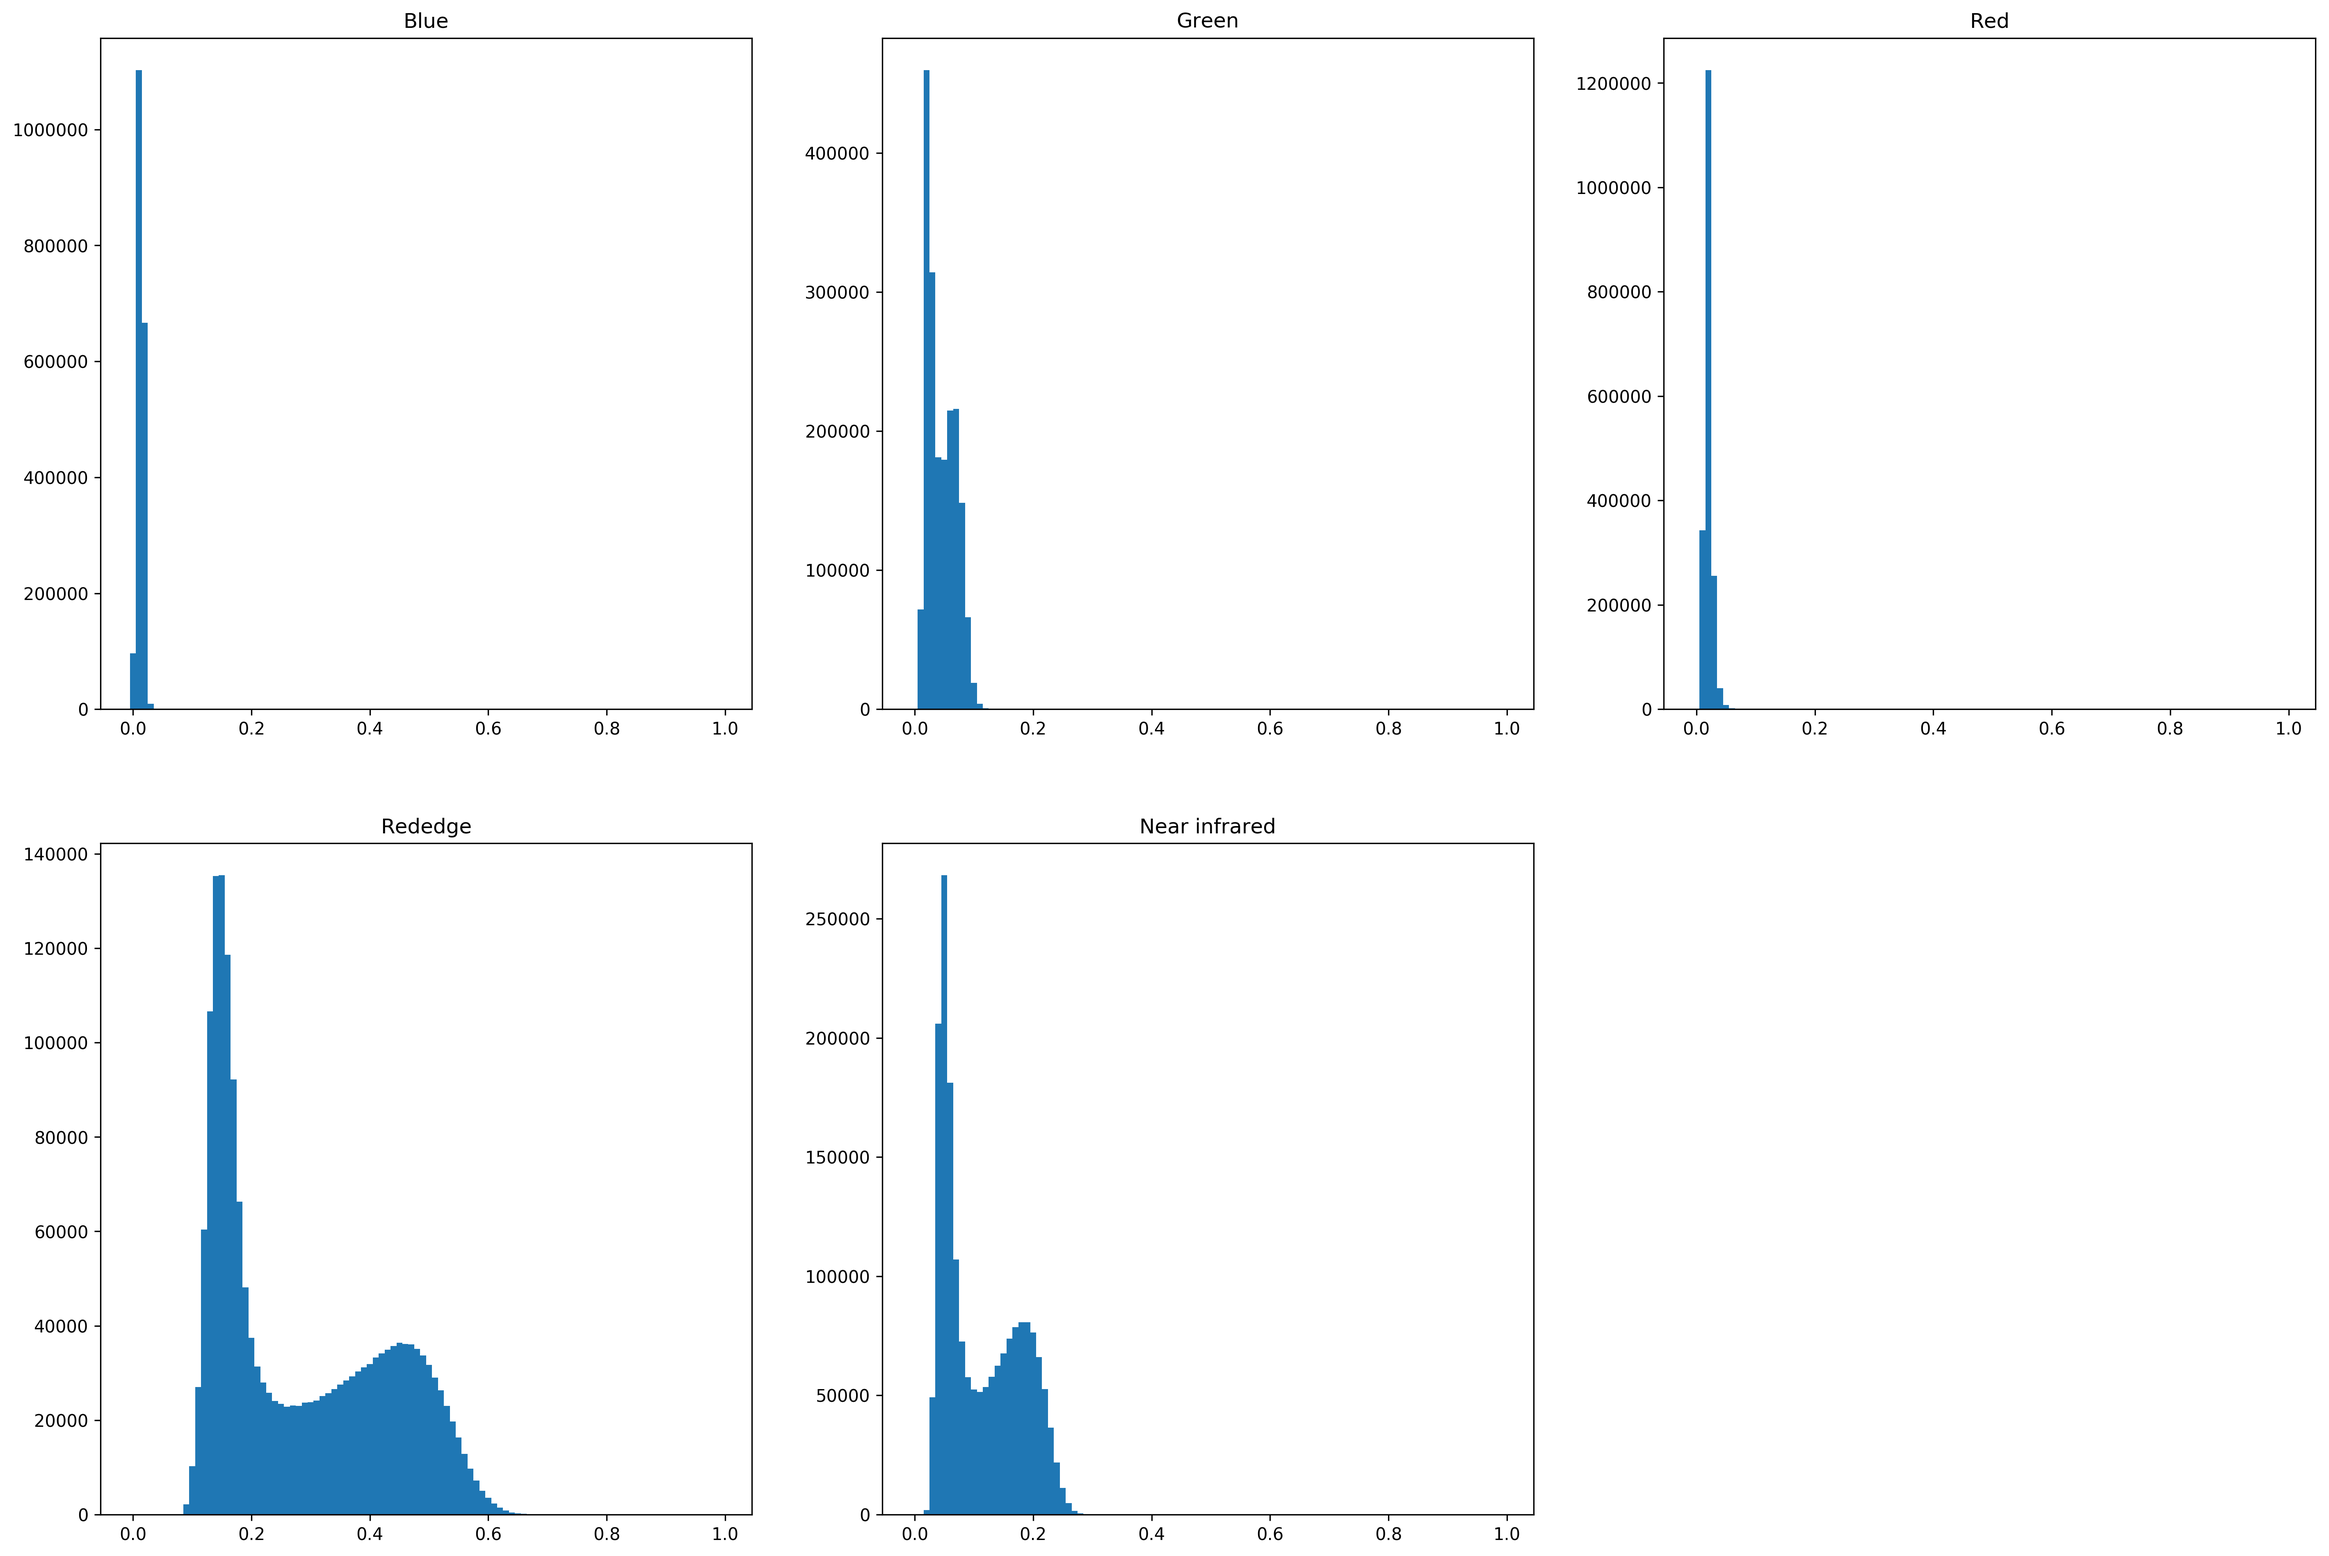
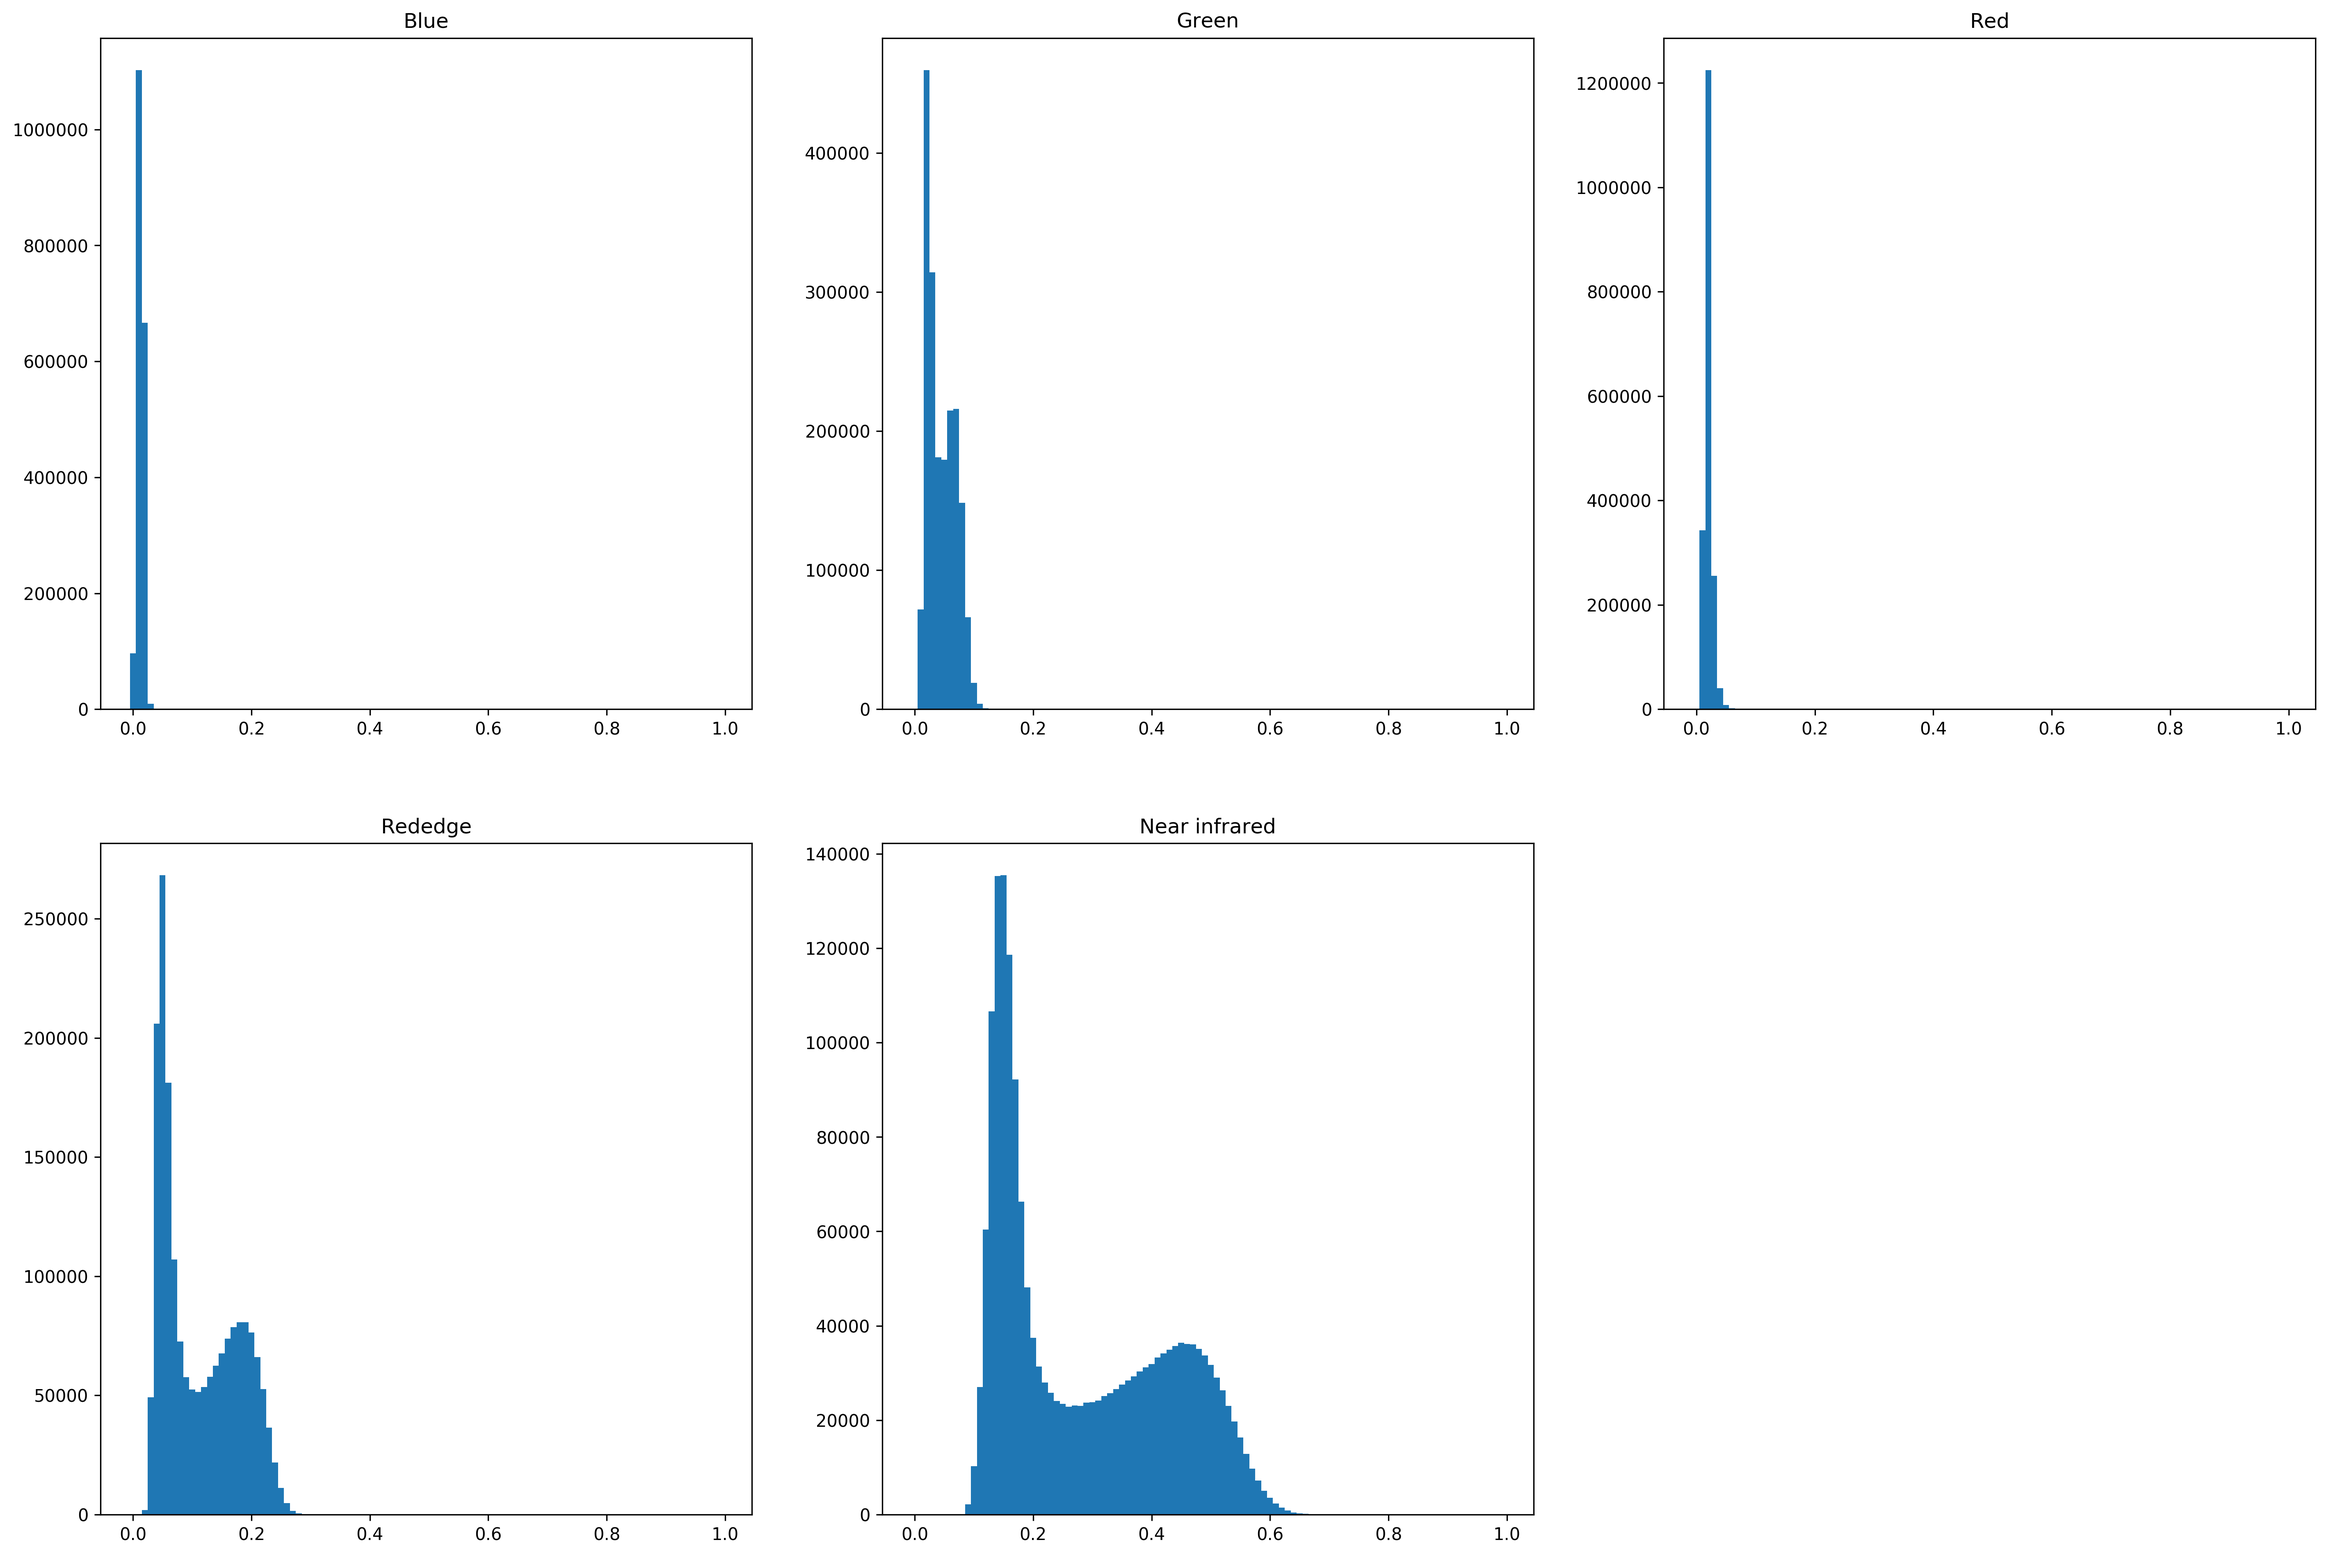
Update Mapping potato file

diff --git a/Mapping_potato_late_blight_from_UAV-based_multispectral_imagery.md b/Mapping_potato_late_blight_from_UAV-based_multispectral_imagery.md
@@ -22,7 +22,7 @@ The experimental plot area was clipped by using a reference polygon (red polygon
 
 ## Study area:
 
-<img src="Images/Figure1.png" alt="Imagen" width = "700" height="350" style="border: black 2px solid;" >
+<img src="Images/Figure1.png" alt="Imagen" width = "700" height="450" style="border: black 2px solid;" >
     
 High resolution multispectral images were acquired at 40 m altitude above the ground surface at 11:00 am local time (GMT-5). Each 
 multispectral image acquired by the MicaSense camera had five bands as described in the next table.
@@ -127,19 +127,19 @@ ds = gdal.Open('Raster/Correccion_reflectancia/MR_CE_20180512_Subachoque.tif')
 AZUL = ds.GetRasterBand(1).ReadAsArray()
 VERDE = ds.GetRasterBand(2).ReadAsArray()
 ROJO = ds.GetRasterBand(3).ReadAsArray()
-NIR = ds.GetRasterBand(4).ReadAsArray()
-REDEDGE = ds.GetRasterBand(5).ReadAsArray()
+REDEDGE = ds.GetRasterBand(4).ReadAsArray()
+NIR = ds.GetRasterBand(5).ReadAsArray()
 
 srs = ds.GetProjectionRef()
 geo_transform = ds.GetGeoTransform()
 
 plt.figure(1, dpi=300)
 plt.subplots_adjust(left=0.0, right=3.0, bottom=0.0, top=3.0)
-plt.subplot(321) ,plt.imshow(AZUL, cmap='gray'),plt.title('Banda azul')
-plt.subplot(322) ,plt.imshow(VERDE, cmap='gray'),plt.title('Banda verde')
-plt.subplot(323) ,plt.imshow(ROJO, cmap='gray'),plt.title('Banda roja')
-plt.subplot(324) ,plt.imshow(NIR, cmap='gray'),plt.title('Banda infrarroja')
-plt.subplot(325) ,plt.imshow(REDEDGE, cmap='gray'),plt.title('Banda borde rojo')
+plt.subplot(321) ,plt.imshow(AZUL, cmap='gray'),plt.title('Blue band')
+plt.subplot(322) ,plt.imshow(VERDE, cmap='gray'),plt.title('Green band')
+plt.subplot(323) ,plt.imshow(ROJO, cmap='gray'),plt.title('Red band')
+plt.subplot(324) ,plt.imshow(REDEDGE, cmap='gray'),plt.title('Red edge band')
+plt.subplot(325) ,plt.imshow(NIR, cmap='gray'),plt.title('Infrared band')
 plt.show()
 ```
 
@@ -176,9 +176,9 @@ plt.subplot(235), plt.bar(hist_range,hist_b5,0.01),plt.title('Near infrared')
 
 
 
-    (<matplotlib.axes._subplots.AxesSubplot at 0x7fae900306d8>,
+    (<matplotlib.axes._subplots.AxesSubplot at 0x7f7de52f4ef0>,
      <Container object of 100 artists>,
-     <matplotlib.text.Text at 0x7fae72ad9e48>)
+     <matplotlib.text.Text at 0x7f7df1098b38>)
 
 
 
@@ -315,37 +315,37 @@ Now we proceed to save each of the segmented bands:
 bands_out = np.stack([azul_seg,
                       verde_seg,
                       rojo_seg,
-                      nir_seg,
-                      rededge_seg],
+                      rededge_seg,
+                     nir_seg],
                      axis=2)
 
-band_names = {'M_2018-05-12_Corte_Seg_B1.tif',
-              'M_2018-05-12_Corte_Seg_B2.tif',
-             'M_2018-05-12_Corte_Seg_B3.tif',
-             'M_2018-05-12_Corte_Seg_B4.tif',
-             'M_2018-05-12_Corte_Seg_B5.tif'
+band_names = {'M_2018-05-12_Corte_Seg_B1.tif':0,
+              'M_2018-05-12_Corte_Seg_B2.tif':1,
+             'M_2018-05-12_Corte_Seg_B3.tif':2,
+             'M_2018-05-12_Corte_Seg_B4.tif':3,
+             'M_2018-05-12_Corte_Seg_B5.tif':4
              }
 dir_out = 'Raster/Segmented/'
-i=0
+
 for band_name in band_names:
     filename_output = dir_out + band_name
+    index = band_names[band_name]
     x_size = ds.RasterXSize  # Raster xsize
     y_size = ds.RasterYSize  # Raster ysize
     driver = gdal.GetDriverByName('GTiff')
     arch = driver.Create(filename_output,x_size,y_size,1,gdal.GDT_Float32)
     arch.SetGeoTransform(geo_transform)
     arch.SetProjection(srs)
-    arch.GetRasterBand(1).WriteArray(bands_out[:,:,i].astype(np.float32))
+    arch.GetRasterBand(1).WriteArray(bands_out[:,:,index].astype(np.float32))
     del(arch)
-    i +=1
     print("Band "+band_name+" exported")
 ```
 
-    Band M_2018-05-12_Corte_Seg_B5.tif exported
-    Band M_2018-05-12_Corte_Seg_B1.tif exported
-    Band M_2018-05-12_Corte_Seg_B4.tif exported
     Band M_2018-05-12_Corte_Seg_B3.tif exported
     Band M_2018-05-12_Corte_Seg_B2.tif exported
+    Band M_2018-05-12_Corte_Seg_B1.tif exported
+    Band M_2018-05-12_Corte_Seg_B4.tif exported
+    Band M_2018-05-12_Corte_Seg_B5.tif exported
 
 
 ## Supervised classification of dataset A and models training
@@ -390,7 +390,7 @@ def plot_time(dt):
 
     ax.barh(y_pos, performance, align='center')
     ax.set_yticks(y_pos)
-    ax.set_yticklabels(people)
+    ax.set_yticklabels(methods)
     ax.invert_yaxis()  # labels read top-to-bottom
     ax.set_xlabel('Seconds')
     ax.set_title('Performance by method')
@@ -590,13 +590,13 @@ class_prediction, class_prediction_GBC, class_prediction_svc, class_prediction_l
     [Parallel(n_jobs=2)]: Using backend ThreadingBackend with 2 concurrent workers.
     [Parallel(n_jobs=2)]: Done  46 tasks      | elapsed:    0.2s
     [Parallel(n_jobs=2)]: Done 196 tasks      | elapsed:    0.7s
-    [Parallel(n_jobs=2)]: Done 446 tasks      | elapsed:    1.5s
-    [Parallel(n_jobs=2)]: Done 500 out of 500 | elapsed:    1.7s finished
+    [Parallel(n_jobs=2)]: Done 446 tasks      | elapsed:    1.6s
+    [Parallel(n_jobs=2)]: Done 500 out of 500 | elapsed:    1.8s finished
     [Parallel(n_jobs=2)]: Using backend ThreadingBackend with 2 concurrent workers.
-    [Parallel(n_jobs=2)]: Done  46 tasks      | elapsed:    3.9s
-    [Parallel(n_jobs=2)]: Done 196 tasks      | elapsed:   16.3s
-    [Parallel(n_jobs=2)]: Done 446 tasks      | elapsed:   36.9s
-    [Parallel(n_jobs=2)]: Done 500 out of 500 | elapsed:   41.3s finished
+    [Parallel(n_jobs=2)]: Done  46 tasks      | elapsed:    4.1s
+    [Parallel(n_jobs=2)]: Done 196 tasks      | elapsed:   16.7s
+    [Parallel(n_jobs=2)]: Done 446 tasks      | elapsed:   38.7s
+    [Parallel(n_jobs=2)]: Done 500 out of 500 | elapsed:   43.4s finished
     [Parallel(n_jobs=2)]: Using backend ThreadingBackend with 2 concurrent workers.
     [Parallel(n_jobs=2)]: Done  46 tasks      | elapsed:    0.0s
     [Parallel(n_jobs=2)]: Done 196 tasks      | elapsed:    0.0s
@@ -719,13 +719,13 @@ print(classification_report(y_true, y_pred_rf, target_names=target_names))
 
                   precision    recall  f1-score   support
     
-               0       1.00      0.96      0.98   4190374
-     Late blight       0.33      0.89      0.48    268850
-         Healthy       0.89      0.43      0.58    532752
+               0       1.00      0.95      0.97   4190379
+     Late blight       0.32      0.89      0.47    268848
+         Healthy       0.88      0.43      0.58    532749
     
-        accuracy                           0.90   4991976
-       macro avg       0.74      0.76      0.68   4991976
-    weighted avg       0.95      0.90      0.91   4991976
+        accuracy                           0.89   4991976
+       macro avg       0.73      0.76      0.68   4991976
+    weighted avg       0.95      0.89      0.91   4991976
     
 
 
@@ -741,13 +741,13 @@ print(classification_report(y_true, y_pred_gbc, target_names=target_names))
 
                   precision    recall  f1-score   support
     
-               0       1.00      0.96      0.98   4190374
-     Late blight       0.33      0.80      0.47    268850
-         Healthy       0.78      0.48      0.60    532752
+               0       1.00      0.95      0.97   4190379
+     Late blight       0.32      0.81      0.45    268848
+         Healthy       0.81      0.48      0.60    532749
     
-        accuracy                           0.90   4991976
-       macro avg       0.70      0.75      0.68   4991976
-    weighted avg       0.94      0.90      0.91   4991976
+        accuracy                           0.89   4991976
+       macro avg       0.71      0.75      0.68   4991976
+    weighted avg       0.94      0.89      0.91   4991976
     
 
 
@@ -762,13 +762,13 @@ print(classification_report(y_true, y_pred_svc, target_names=target_names))
 
                   precision    recall  f1-score   support
     
-               0       1.00      0.96      0.98   4190374
-     Late blight       0.33      0.86      0.48    268850
-         Healthy       0.87      0.47      0.61    532752
+               0       1.00      0.95      0.97   4190379
+     Late blight       0.32      0.86      0.47    268848
+         Healthy       0.87      0.47      0.61    532749
     
-        accuracy                           0.90   4991976
-       macro avg       0.73      0.76      0.69   4991976
-    weighted avg       0.95      0.90      0.91   4991976
+        accuracy                           0.89   4991976
+       macro avg       0.73      0.76      0.68   4991976
+    weighted avg       0.95      0.89      0.91   4991976
     
 
 
@@ -783,13 +783,13 @@ print(classification_report(y_true, y_pred_lsvc, target_names=target_names))
 
                   precision    recall  f1-score   support
     
-               0       1.00      0.96      0.98   4190374
-     Late blight       0.33      0.86      0.48    268850
-         Healthy       0.87      0.47      0.61    532752
+               0       1.00      0.95      0.97   4190379
+     Late blight       0.32      0.86      0.47    268848
+         Healthy       0.87      0.47      0.61    532749
     
-        accuracy                           0.90   4991976
-       macro avg       0.73      0.76      0.69   4991976
-    weighted avg       0.95      0.90      0.91   4991976
+        accuracy                           0.89   4991976
+       macro avg       0.73      0.76      0.68   4991976
+    weighted avg       0.95      0.89      0.91   4991976
     
 
 
@@ -804,13 +804,13 @@ print(classification_report(y_true, y_pred_knn, target_names=target_names))
 
                   precision    recall  f1-score   support
     
-               0       1.00      0.96      0.98   4190374
-     Late blight       0.33      0.87      0.48    268850
-         Healthy       0.87      0.43      0.58    532752
+               0       1.00      0.95      0.97   4190379
+     Late blight       0.32      0.87      0.46    268848
+         Healthy       0.87      0.43      0.58    532749
     
-        accuracy                           0.90   4991976
-       macro avg       0.73      0.75      0.68   4991976
-    weighted avg       0.95      0.90      0.91   4991976
+        accuracy                           0.89   4991976
+       macro avg       0.73      0.75      0.67   4991976
+    weighted avg       0.95      0.89      0.91   4991976
     
 
 
@@ -824,6 +824,5 @@ Scikit-learn: Machine Learning in Python, Pedregosa et al., JMLR 12, pp. 2825-28
 
 
 ```python
-
 
 ```
